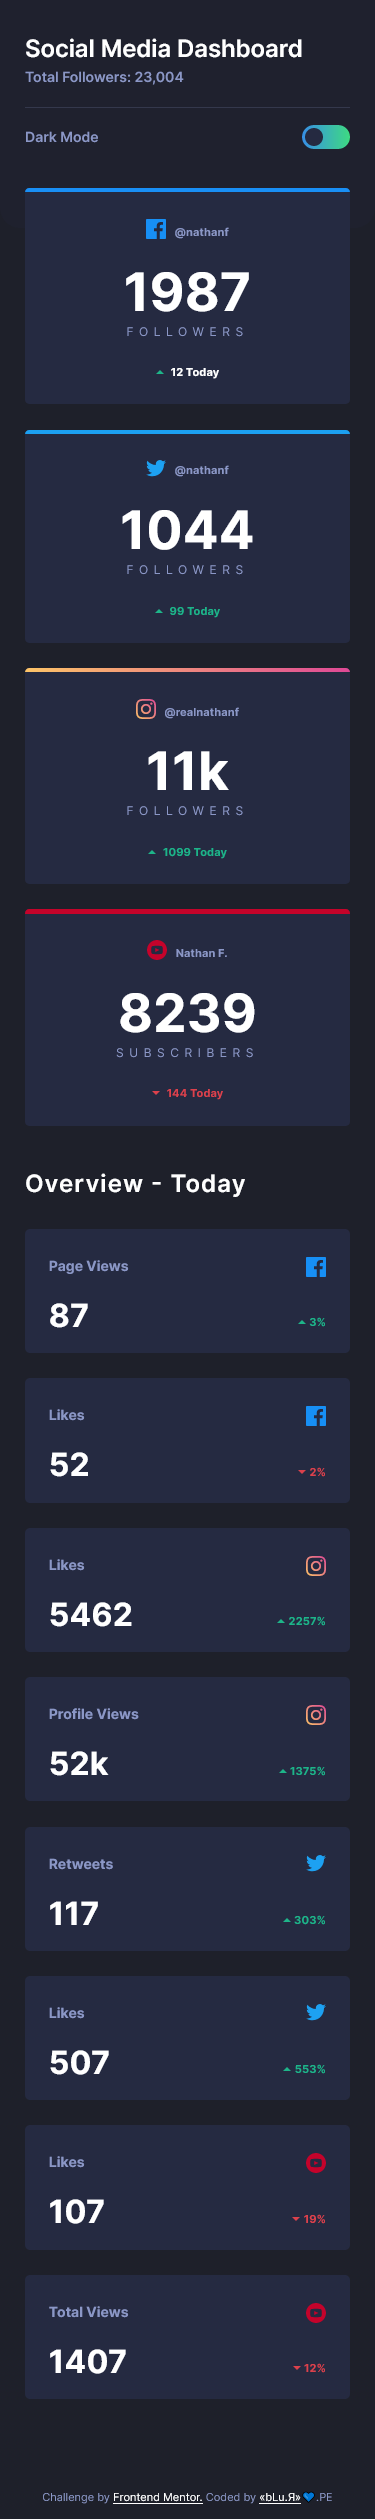
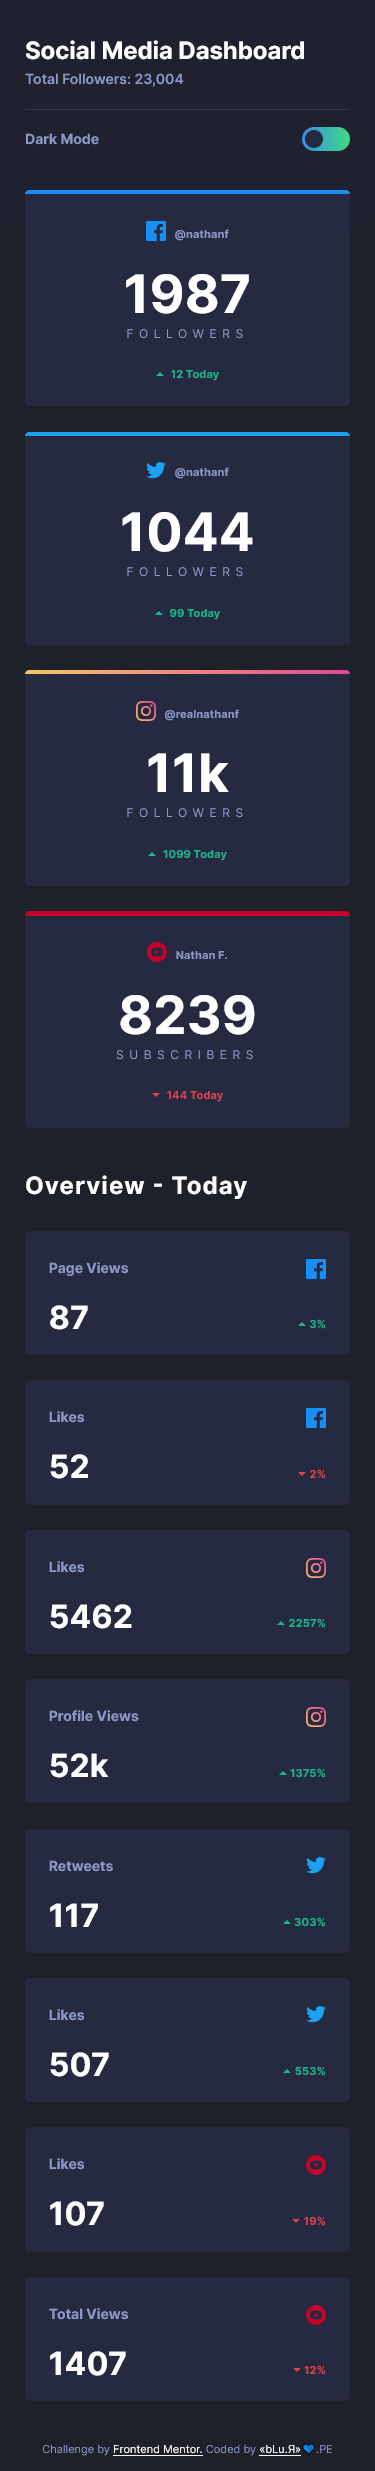
Some color/alignment fixes and store the user preference added

diff --git a/styles/style.css b/styles/style.css
@@ -18,7 +18,6 @@
     --text-color-blue: hsl(228, 34%, 66%);
     --text-color-white: hsl(0, 0%, 100%);
 
-    --toggle-label: hsl(228, 34%, 66%);
     --toggle-color-bg-1: hsl(210, 78%, 56%);
     --toggle-color-bg-2: hsl(146, 68%, 55%);
     --toggle-color-bg: hsl(0, 0%, 100%);
@@ -33,7 +32,6 @@
     --text-color-blue: hsl(228, 12%, 44%);
     --text-color-white: hsl(230, 17%, 14%);
 
-    --toggle-label: hsl(230, 22%, 74%);
     --toggle-color-bg: hsl(230, 22%, 74%);
 }
 
@@ -49,7 +47,6 @@ html {
 body {
     font-family: "Inter", sans-serif;
     margin: 0;
-    /* padding: 40px 25px 15px; */
     background-color: var(--bg-color);
     color: var(--text-color-blue);
 }
@@ -67,13 +64,13 @@ img {
 /* ---HEADER --- */
 .header {
     background-color: var(--bg-color-top);
-    padding: 34px 25px 40px;
+    padding: 36px 25px 40px;
     border-bottom-left-radius: 20px;
     border-bottom-right-radius: 20px;
 }
 .header__title {
     font-size: 1.7rem;
-    font-weight: 600;
+    font-weight: 700;
     margin-bottom: 0.2em;
     color: var(--text-color-white);
 }
@@ -96,10 +93,10 @@ img {
 }
 .darklight__label {
     font-size: 1rem;
-    font-weight: 600;
+    font-weight: 700;
     order: -1;
     transition: 0.4s;
-    color: var(--toggle-label);
+    color: var(--text-color-blue);
 }
 .toggle {
     width: 48px;
@@ -228,7 +225,7 @@ img {
 .overview__title {
     color: var(--text-color-white);
     font-size: 1.7rem;
-    font-weight: 600;
+    font-weight: 700;
     letter-spacing: 0.05em;
     margin-bottom: 1.3em;
 }
@@ -283,10 +280,8 @@ img {
 
 /* --- FOOTER --- */
 .footer {
-    height: 80px;
     display: flex;
     justify-content: center;
-    align-items: flex-end;
     padding-bottom: 15px;
 }
 .attribution {
@@ -299,7 +294,7 @@ img {
 
 @media (726px <= width) {
     .header {
-        padding: 34px 50px 80px;
+        padding: 36px 50px 80px;
     }
     .header-container {
         display: grid;
@@ -326,7 +321,7 @@ img {
         grid-area: darklight;
         align-self: center;
         justify-content: flex-end;
-        margin-bottom: 0;
+        margin-bottom: -0.8em;
     }
     .darklight__label {
         margin-right: 1em;
@@ -341,7 +336,7 @@ img {
 
     /* --- PRINCIPAL SECTION --- */
     .principal {
-        margin-bottom: 3.4em;
+        margin-bottom: 3.3em;
     }
     .principal-card {
         width: min(100%, 275px);
@@ -371,7 +366,7 @@ img {
     .header {
         padding-left: 83px;
         padding-right: 83px;
-        padding-bottom: 135px;
+        padding-bottom: 134px;
     }
     .header-container,
     .overview__title {

diff --git a/index.js b/index.js
@@ -1,6 +1,9 @@
-console.log("kame house");
 const toggle = document.querySelector(".toggle");
+const hr = document.querySelector(".header__hr");
 const toggleCircle = document.querySelector(".toggle__circle");
+const currentTheme = localStorage.getItem("theme")
+    ? localStorage.getItem("theme")
+    : null;
 
 let on = true;
 const toggleTheme = () => {
@@ -8,12 +11,16 @@ const toggleTheme = () => {
         document.documentElement.setAttribute("data-theme", "light");
         toggle.classList.remove("toggle-bg-gradient");
         toggleCircle.classList.add("toggle__circle-on");
+        hr.style.opacity = 1;
+        localStorage.setItem("theme", "light");
 
         on = false;
     } else {
         document.documentElement.setAttribute("data-theme", "dark");
         toggle.classList.add("toggle-bg-gradient");
         toggleCircle.classList.remove("toggle__circle-on");
+        hr.style.opacity = 0.2;
+        localStorage.setItem("theme", "dark");
 
         on = true;
     }
@@ -29,6 +36,10 @@ const out = () => {
         toggle.classList.remove("toggle-bg-gradient");
     }
 };
+
+if (currentTheme === "light") {
+    toggleTheme();
+}
 
 toggle.addEventListener("mouseover", over, false);
 toggle.addEventListener("mouseout", out, false);

diff --git a/index.html b/index.html
@@ -46,7 +46,7 @@
                 </div>
                 <footer class="principal-card__footer">
                     <img class="principal-card__arrowhead" src="./images/icon-up.svg" alt="" aria-hidden="true">
-                    <p class="principal-card__statistic">12 Today</p>
+                    <p class="principal-card__statistic up">12 Today</p>
                 </footer>
             </article>
             <!-- Principal Card 2 -->
